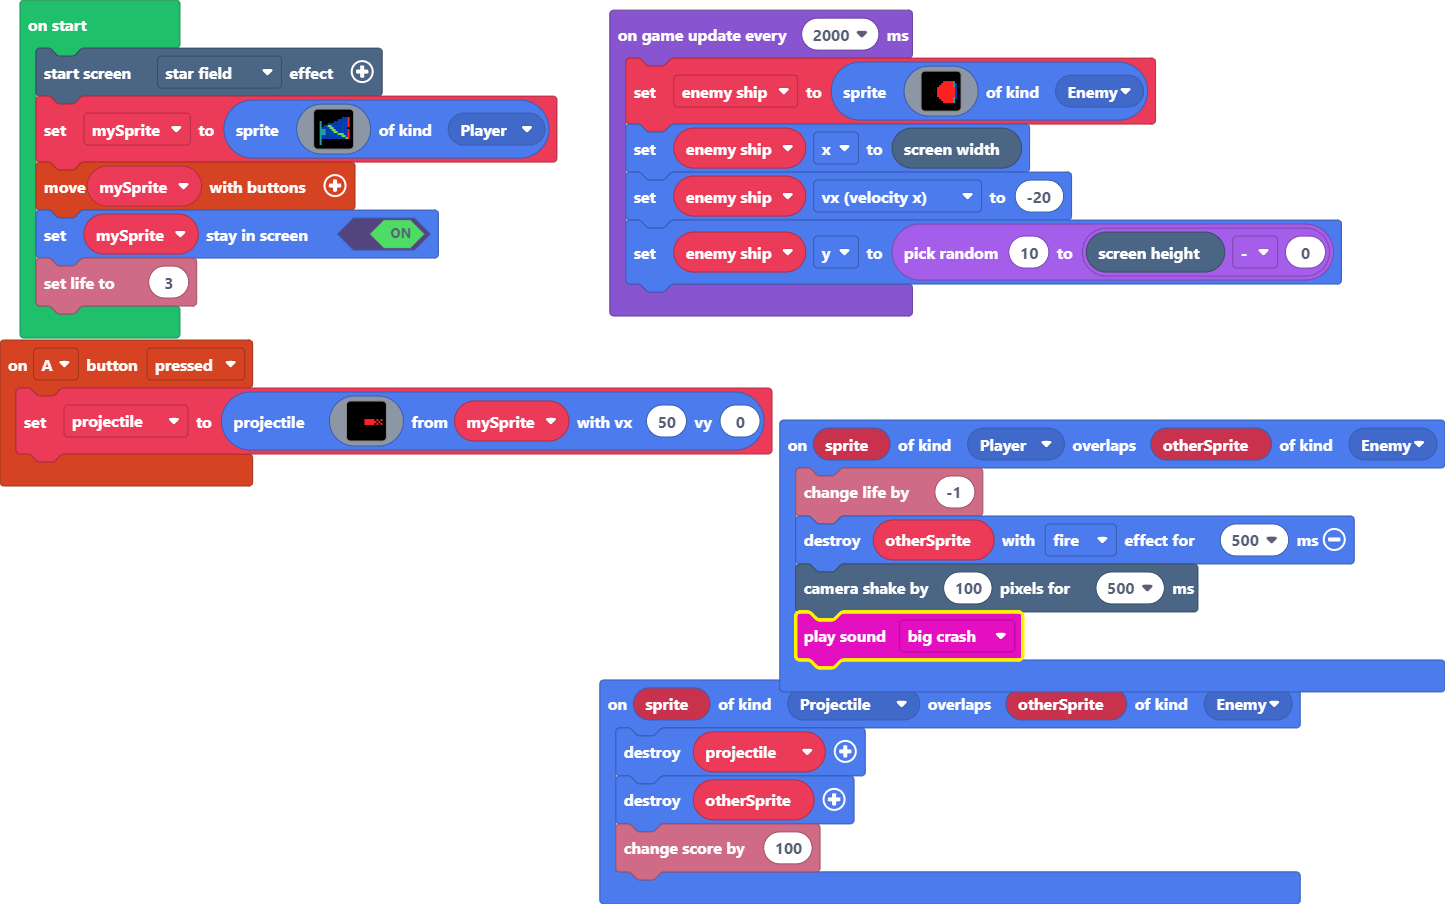
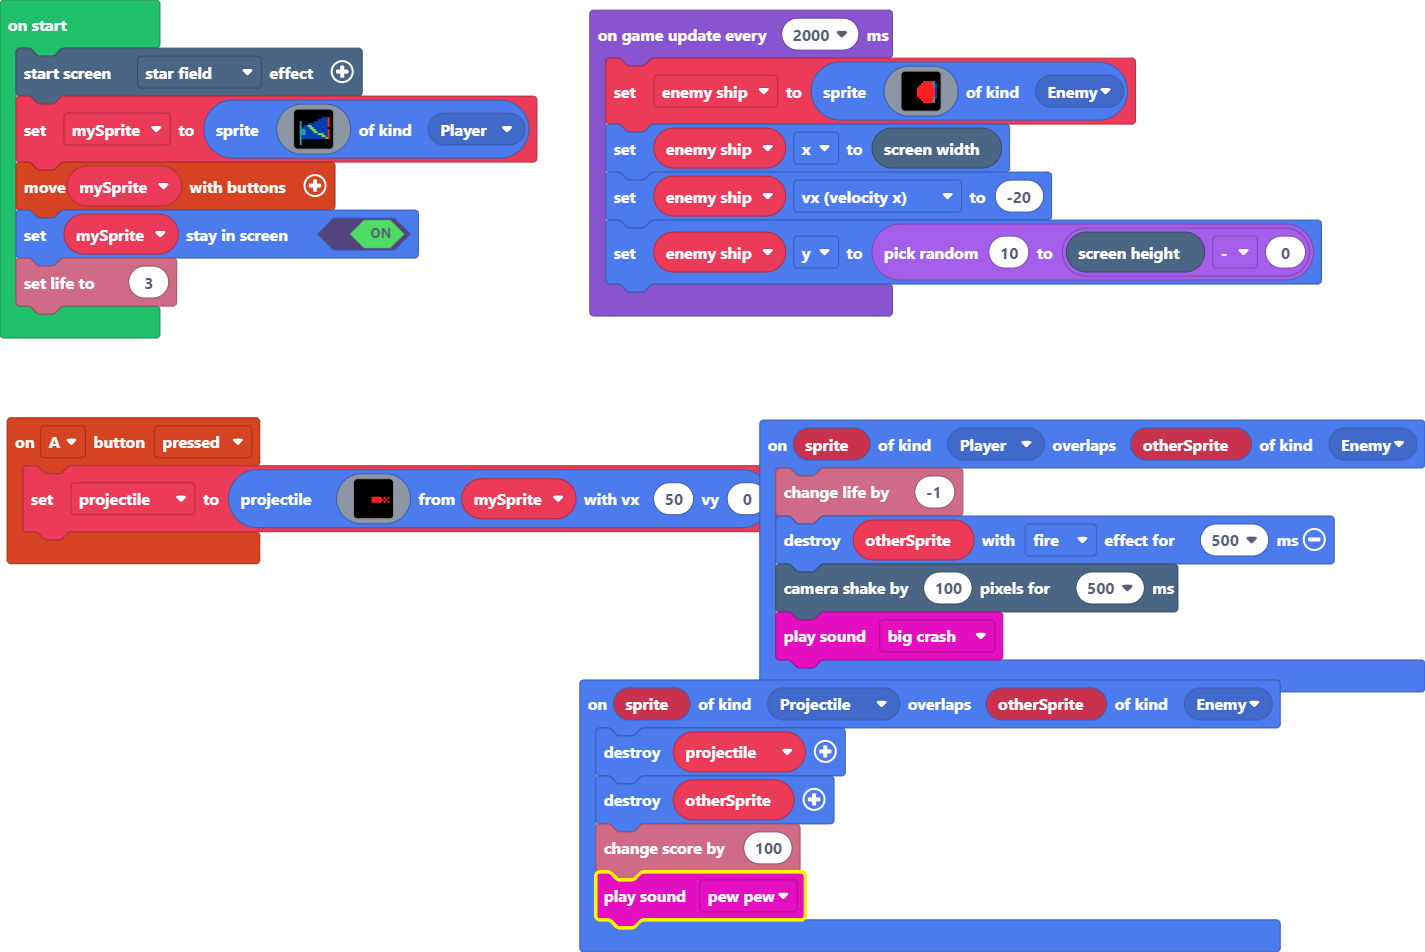
Update main.blocks, main.ts

diff --git a/main.ts b/main.ts
@@ -22,6 +22,7 @@ sprites.onOverlap(SpriteKind.Projectile, SpriteKind.Enemy, function (sprite, oth
     projectile.destroy()
     otherSprite.destroy()
     info.changeScoreBy(100)
+    music.pewPew.play()
 })
 sprites.onOverlap(SpriteKind.Player, SpriteKind.Enemy, function (sprite, otherSprite) {
     info.changeLifeBy(-1)
